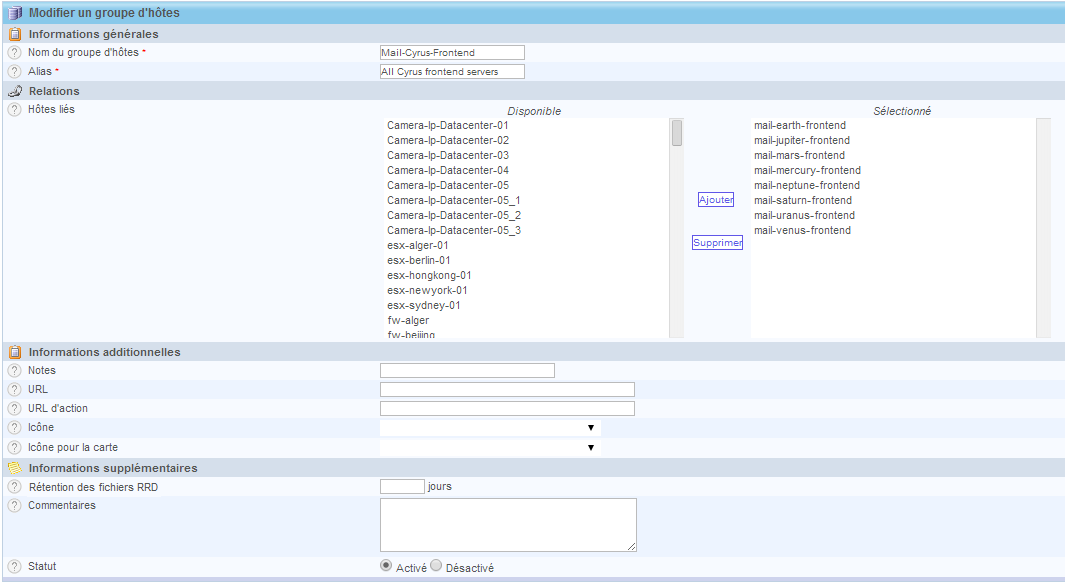
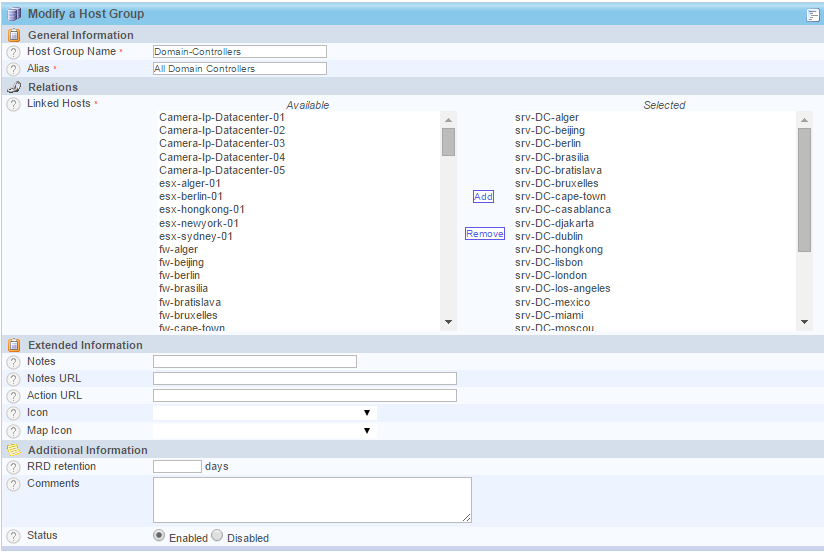
new screenshot EN and fix 08category file path

diff --git a/doc/en/user/configuration/08category.rst b/doc/en/user/configuration/08category.rst
@@ -1,0 +1,46 @@
+==========
+Categories
+==========
+
+Categories are used to define ACLs on the hosts and the services. The aim is to be able to classify the hosts or the services within a category.
+
+Centreon 2.4 includes a new functionality called “Criticality”. As from version 2.5, the levels of criticality are linked to a category, they have become a type of category. A criticality level is an indicator for defining the criticality of a host or a service. The aim is to be able to handle the problems of hosts or services by order of priority. By this system, it is thus possible to filter the objects in the “Supervision” views by criticality.
+
+.. _hostcategory:
+
+***************
+Host categories
+***************
+
+To add a category of hosts:
+
+1.      Go into the menu: **Configuration ==> Hosts**
+2.      In the left menu, click on **Categories**
+3.      Click on **Add**
+
+.. image :: /images/user/configuration/08hostcategory.png
+   :align: center
+ 
+*       The **Host Category Name** and **Alias** fields contain respectively the name and the alias of the category of host.
+*       The **Linked hosts** list allows us to add hosts to the category.
+*       If a host template is added to **Linked host template** list all the hosts which inherit from this Model belong to this category.
+*       The **Severity type** box signifies that the category of hosts has a criticality level.
+*       The **Level** and **Icon** fields define a criticality level and an associated icon respectively.
+*       The **Status** and **Comment** fields allow us to enable or disable the category of host and to comment on it.
+
+**********************
+Categories of services
+**********************
+
+To add a category of services:
+1.      Go into the menu: Configuration ==> Services
+2.      In the left menu, click on Categories
+3.      Click on Add
+ 
+*       The Name and Description fields define the name and the description of the category of service.
+*       If a Model of service belongs to Linked to models of services all the services belonging to this Model of service are in this category.
+*       The Is of criticality type box signifies that the category of service has a criticality level.
+*       The Level and icons fields define a criticality level and an associated icon respectively.
+*       The Status field allows us to enable or disable the category of services.
+Note: for more information refer to the associated chapter covering categories.
+

diff --git a/doc/en/user/configuration/07groups.rst b/doc/en/user/configuration/07groups.rst
@@ -44,7 +44,7 @@ To add a service group:
 #. In the left menu, click on **Service Groups**
 #. Click on **Add**
 
-.. image :: /images/user/configuration/07contactgroup.png
+.. image :: /images/user/configuration/07servicegroup.png
    :align: center 
 
 *	The **Service group Name** and **Description** fields describes the name and the description of the service group.
